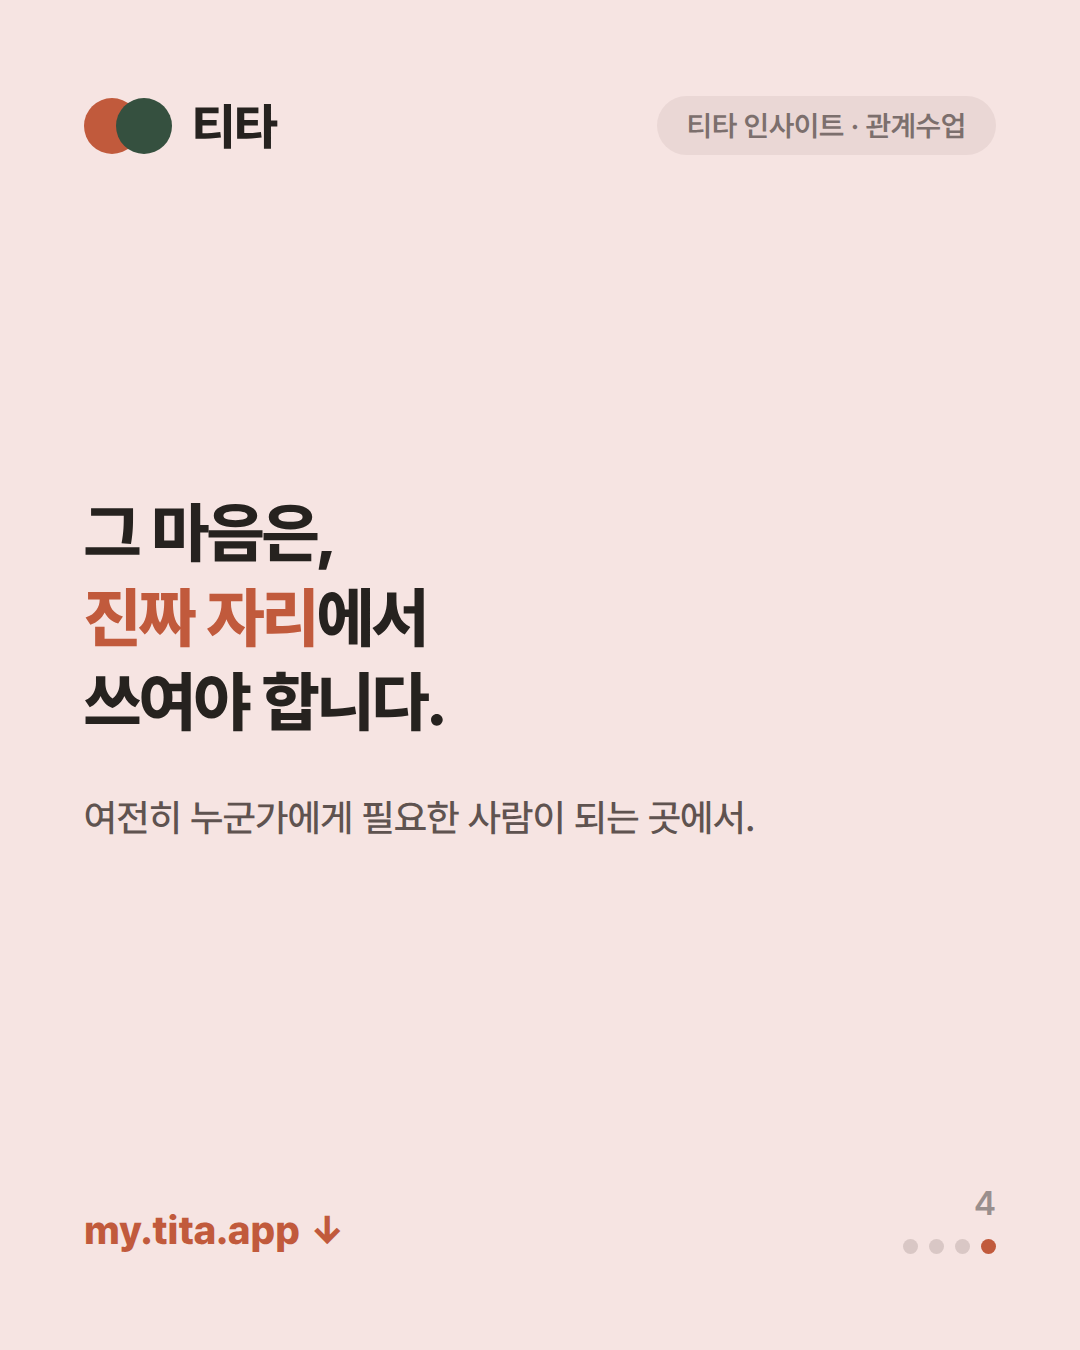
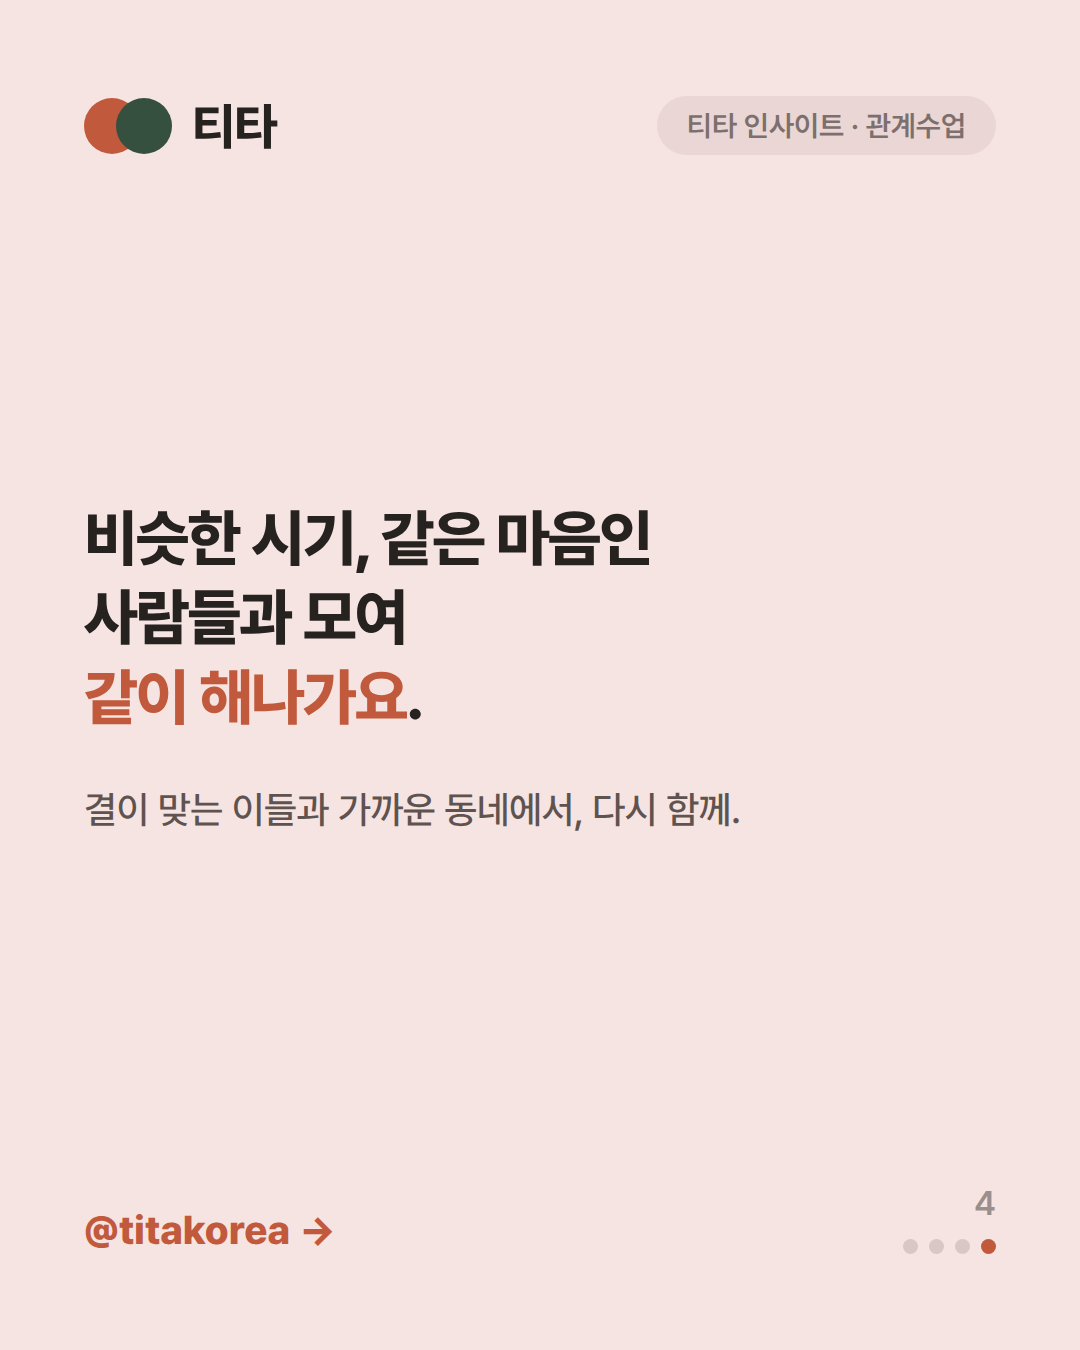
feat(blog): 4번째 글 CTA를 '함께 해나감' 결론으로 + @titakorea
- 카드4: '비슷한 시기·같은 마음인 사람들과 모여 같이 해나가요' — 개인 해냄→공동 해냄
- 본문 티타 문단·마무리 인용을 '함께 해나감' 결론으로 조정
- CTA 표기 my.tita.app → @titakorea (인스타 핸들)

Claude-Session: https://claude.ai/code/session_01SVoaR1M7XWjiBzTKquaj1d

Changed region(s): [[0.0611, 0.3733, 0.6111, 0.56], [0.0611, 0.5911, 0.7028, 0.6222], [0.0611, 0.9022, 0.3056, 0.9333]]

diff --git a/src/app/blog/posts.ts b/src/app/blog/posts.ts
@@ -111,16 +111,16 @@ export const POSTS: BlogPost[] = [
       {
         type: "image",
         src: "/blog/insight-06/card-4.png",
-        alt: "그 마음은 진짜 자리에서 쓰여야 한다 — 여전히 누군가에게 필요한 사람이 되는 곳에서라는 티타 인사이트 카드",
-        caption: "my.tita.app",
+        alt: "비슷한 시기 같은 마음인 사람들과 모여 같이 해나가요 — 결이 맞는 이들과 가까운 동네에서 다시 함께라는 티타 인사이트 카드",
+        caption: "@titakorea",
       },
       {
         type: "p",
-        text: "티타가 만들려는 것이 바로 그 자리다. 결(관심사·삶의 결)이 맞는 사람들과 가까운 동네에서 만나 서로에게 힘이 되고, 여전히 서로를 반기는 관계다. 무언가를 팔거나 재촉하지 않는다. 안심하고 그럴 수 있도록 — **NICE 본인인증**을 통과한 사람만 함께하고, 위험한 접근은 **AI가 실시간으로 감지**하며, 이상 신고는 **관리자가 직접 확인**한다.",
+        text: "티타가 만들려는 것이 바로 그 자리다. **비슷한 시기를 지나며 같은 마음을 품은 사람들**이 가까운 동네에서 모여, 서로에게 힘이 되고 무언가를 **함께 해나가는** 관계다. 혼자 ‘한 방’을 좇는 대신, 결이 맞는 이들과 다시 시작하는 것이다. 무언가를 팔거나 재촉하지 않는다. 안심하고 그럴 수 있도록 — **NICE 본인인증**을 통과한 사람만 함께하고, 위험한 접근은 **AI가 실시간으로 감지**하며, 이상 신고는 **관리자가 직접 확인**한다.",
       },
       {
         type: "quote",
-        text: "은퇴는 역할의 끝일 뿐, 쓸모의 끝이 아니다. 아직 하고 싶은 그 마음은, 진짜 자리에서 쓰여야 한다.",
+        text: "은퇴는 역할의 끝일 뿐, 쓸모의 끝이 아니다. 아직 하고 싶은 그 마음은, 같은 마음인 사람들과 함께일 때 가장 오래간다.",
       },
     ],
     sources: [
